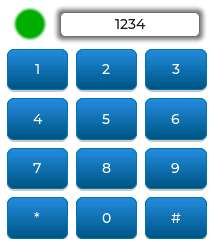
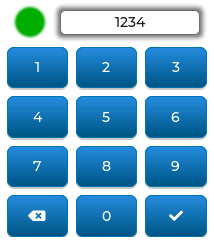
key_code

diff --git a/cookbook/lvgl.rst b/cookbook/lvgl.rst
@@ -847,13 +847,15 @@ If you key in the correct sequence, the :ref:`lvgl-wgt-led` widget will change c
                         control:
                           no_repeat: true
                   - buttons:
-                      - text: '*'
+                      - symbol: BACKSPACE
+                        key_code: "*"
                         control:
                           no_repeat: true
                       - text: 0
                         control:
                           no_repeat: true
-                      - text: '#'
+                      - symbol: OK
+                        key_code: "#"
                         control:
                           no_repeat: true
 
@@ -891,7 +893,7 @@ If you key in the correct sequence, the :ref:`lvgl-wgt-led` widget will change c
                     id: lvgl_led
                     color: 0xFF0000
 
-A few notable things in this example: usage of ``align_to`` to align the text display to the led vertically; usage of a base object ``obj`` as a parent for the label (in order to center the label in the middle of it and emphasize it with shadows independently of the label's dimensions); changing the background color of the buttons in ``pressed`` state. 
+A few notable things in this example: usage of a base object ``obj`` as a parent for the label (in order to center the label in the middle of it and emphasize it with shadows independently of the label's dimensions); usage of ``align_to`` to align it to the led vertically; changing the background color of the buttons in ``pressed`` state; using the ``key_code`` configuration option to send a different character to ``key_collector`` instead of the displayed symbol.
 
 .. _lvgl-cook-idlescreen:
 

diff --git a/components/lvgl.rst b/components/lvgl.rst
@@ -643,6 +643,8 @@ The Button Matrix widget is a lightweight way to display multiple buttons in row
             - **popover** (*Optional*, boolean): show the button label in a popover when pressing this key.
             - **recolor** (*Optional*, boolean): Enable recoloring of button texts with #. E.g. ``It's #ff0000 red#``
             - **custom_1** and **custom_2** (*Optional*, boolean): custom free to use flags
+        - **key_code** (*Optional*, string): one character be sent as the key code to a :ref:`key_collector` instead of ``text`` when the button is pressed.
+collector instead of the button text, if present.
 - **items** (*Optional*, list): Settings for the items **part**, the buttons all use the text and typical background style properties except translations and transformations.
 - **one_checked** (*Optional*, boolean): Allow only one button to be checked at a time (aka. radio buttons). Defaults to ``false``.
 - Style options from :ref:`lvgl-styling` for the background of the button matrix, uses the typical background style properties. ``pad_row`` and ``pad_column`` set the space between the buttons.
